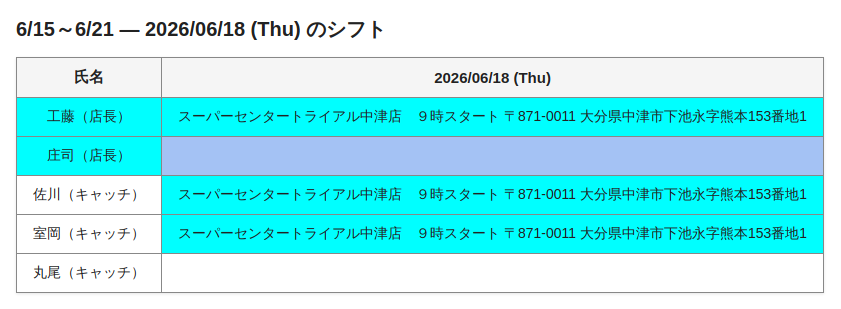
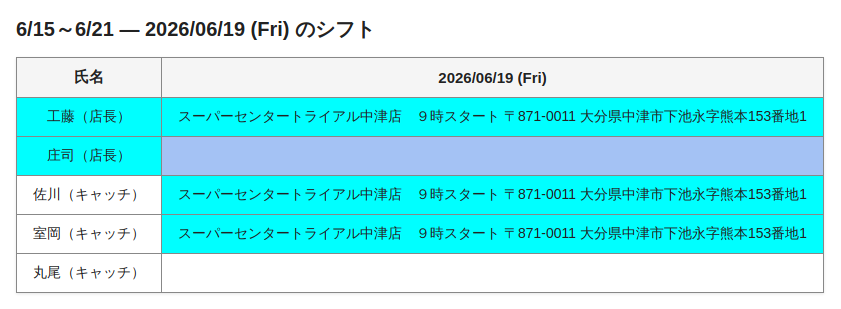
chore: update screenshots [skip ci]

Changed region(s): [[0.2782, 0.0583, 0.4637, 0.1456], [0.4946, 0.233, 0.6801, 0.2913]]

diff --git a/screenshots/latest_kanto.html b/screenshots/latest_kanto.html
@@ -10,12 +10,10 @@ th,td{border:1px solid #888;padding:10px 16px;text-align:center;min-width:90px;}
 th{background:#f5f5f5;font-weight:bold;}
 </style></head><body>
 <div class='container'>
-<h2>週_6月15日-6月21日 — 2026/06/18 (Thu) のシフト</h2>
+<h2>週_6月15日-6月21日 — 2026/06/19 (Fri) のシフト</h2>
 <table>
-<tr><th>氏名</th><th>2026/06/18 (Thu)</th></tr>
-<tr><td style='background-color:rgb(255,153,0);font-size:13px'>大塚（店長）</td><td style='background-color:rgb(224,102,102);font-size:14px'>オーケー川口店　Ｂ　9時スタート
-〒332-0023 埼玉県川口市飯塚２丁目１−１１</td></tr>
-<tr><td style='background-color:#ffffff'></td><td style='background-color:rgb(255,255,255);color:rgb(255,0,0);font-size:13px'>同行</td></tr>
+<tr><th>氏名</th><th>2026/06/19 (Fri)</th></tr>
+<tr><td style='background-color:rgb(255,153,0);font-size:13px'>大塚（店長）</td><td style='background-color:rgb(255,242,204);color:rgb(255,0,0);font-weight:bold;font-size:14px'>水道橋研修　</td></tr>
 <tr><td style='background-color:rgb(255,0,255);font-size:13px'>西本（店長）</td><td style='background-color:rgb(183,183,183);color:rgb(74,134,232);font-size:13px'>休み</td></tr>
 <tr><td style='background-color:rgb(255,0,255);font-size:13px'>小嶋（店長）</td><td style='background-color:rgb(153,0,255);color:rgb(255,255,255);font-size:14px'>オーケー川和町店　Ｂ　9時スタート
 〒224-0057 神奈川県横浜市都筑区川和町１０６</td></tr>
@@ -24,12 +22,12 @@ th{background:#f5f5f5;font-weight:bold;}
 〒329-0207 栃木県小山市美しが丘１丁目２−３</td></tr>
 <tr><td style='background-color:rgb(255,0,255);font-size:13px'>岡村秀星（店長） </td><td style='background-color:rgb(255,0,255);font-size:13px'>オーケー田園調布店　Ｂ　9時スタート
 〒145-0072 東京都大田区田園調布本町５２−１</td></tr>
-<tr><td style='background-color:#ffffff'></td><td style='background-color:rgb(255,255,255);color:rgb(255,0,0);font-size:13px'>店長代理</td></tr>
-<tr><td style='background-color:rgb(0,255,255);font-size:13px'>工藤雅也（店長）</td><td style='background-color:rgb(0,255,0);font-size:14px'>FOOD OFFストッカー サンモリノ那珂店　V　9時スタート
+<tr><td style='background-color:#ffffff'></td><td style='background-color:rgb(255,255,255);color:rgb(255,0,0);font-size:14px'>店長代理</td></tr>
+<tr><td style='background-color:rgb(255,0,255);font-size:13px'>工藤雅也（店長）</td><td style='background-color:rgb(0,255,0);font-size:14px'>FOOD OFFストッカー サンモリノ那珂店　V　9時スタート
 〒311-0105 茨城県那珂市菅谷１６１８−２</td></tr>
-<tr><td style='background-color:rgb(0,255,255);font-size:13px'>岡村（店長）</td><td style='background-color:rgb(224,102,102);font-size:14px'>オーケー川口店　Ｂ　9時スタート
-〒332-0023 埼玉県川口市飯塚２丁目１−１１</td></tr>
-<tr><td style='background-color:#ffffff'></td><td style='background-color:rgb(255,255,255);color:rgb(255,0,0);font-size:13px'>同行</td></tr>
+<tr><td style='background-color:rgb(0,255,255);font-size:13px'>岡村（店長）</td><td style='background-color:rgb(180,167,214);font-size:14px'>オーケー 溝ノ口店　Ｂ　9時スタート
+〒213-0033 神奈川県川崎市高津区下作延１丁目６−７</td></tr>
+<tr><td style='background-color:#ffffff'></td><td style='background-color:rgb(255,255,255);color:rgb(255,0,0);font-size:14px'>店長代理</td></tr>
 <tr><td style='background-color:rgb(0,255,255);font-size:13px'>山田（店長） </td><td style='background-color:rgb(255,229,153);font-size:13px'>オーケー橋場店　Ｂ　9時スタート
 〒111-0023 東京都台東区橋場１丁目１−１５</td></tr>
 <tr><td style='background-color:rgb(0,255,255);font-size:13px'>吉田（店長）</td><td style='background-color:rgb(39,78,19);color:rgb(255,255,255);font-size:13px'>イオンスタイル新井宿駅前店　N　9時スタート
@@ -38,15 +36,13 @@ th{background:#f5f5f5;font-weight:bold;}
 〒306-0025 茨城県古河市原町２３７</td></tr>
 <tr><td style='background-color:rgb(0,255,255);font-size:13px'>横瀬（店長）</td><td style='background-color:rgb(224,102,102);font-size:14px'>オーケー川口店　Ｂ　9時スタート
 〒332-0023 埼玉県川口市飯塚２丁目１−１１</td></tr>
-<tr><td style='background-color:rgb(180,167,214);font-size:13px'>高塚（店長）</td><td style='background-color:rgb(180,167,214);font-size:14px'>オーケー 溝ノ口店　Ｂ　9時スタート
-〒213-0033 神奈川県川崎市高津区下作延１丁目６−７</td></tr>
+<tr><td style='background-color:rgb(180,167,214);font-size:13px'>高塚（店長）</td><td style='background-color:rgb(183,183,183);color:rgb(74,134,232);font-size:13px'>休み</td></tr>
 <tr><td style='background-color:rgb(234,153,153);font-size:13px'>米須清晃（店長）</td><td style='background-color:rgb(244,204,204);font-size:14px'>オーケー町田小川店　Ｂ　9時スタート
 〒194-0003 東京都町田市小川６丁目１３−１９</td></tr>
 <tr><td style='background-color:rgb(234,153,153);font-size:13px'>田口広(CL候補)フェーズ4</td><td style='background-color:rgb(255,242,204);color:rgb(255,0,0);font-weight:bold;font-size:14px'>水道橋研修</td></tr>
 <tr><td style='background-color:rgb(234,153,153);font-size:13px'>武藏海翔(CL候補)フェーズ4</td><td style='background-color:rgb(255,242,204);color:rgb(255,0,0);font-weight:bold;font-size:14px'>水道橋研修</td></tr>
 <tr><td style='background-color:rgb(0,255,0);font-size:13px'>関崎太央(キャッチ)リーダー</td><td style='background-color:rgb(255,242,204);color:rgb(255,0,0);font-weight:bold;font-size:14px'>水道橋研修</td></tr>
-<tr><td style='background-color:rgb(0,255,0);font-size:13px'>池邉杏梨(キャッチ)リーダー</td><td style='background-color:rgb(180,167,214);font-size:14px'>オーケー 溝ノ口店9時スタート（高塚CL）
-〒213-0033 神奈川県川崎市高津区下作延１丁目６−７</td></tr>
+<tr><td style='background-color:rgb(0,255,0);font-size:13px'>池邉杏梨(キャッチ)リーダー</td><td style='background-color:rgb(183,183,183);color:rgb(74,134,232);font-size:14px'>休み</td></tr>
 <tr><td style='background-color:rgb(0,255,0);font-size:13px'>中村響子(キャッチ)リーダー</td><td style='background-color:rgb(255,229,153);font-size:13px'>オーケー橋場店9時スタート（山田CL）
 〒111-0023 東京都台東区橋場１丁目１−１５</td></tr>
 <tr><td style='background-color:rgb(0,255,0);font-size:13px'>佐川明佳(キャッチ)リーダー</td><td style='background-color:rgb(255,255,255);font-size:14px'>スーパーセンタートライアル中津店　S　9時スタート
@@ -60,12 +56,10 @@ th{background:#f5f5f5;font-weight:bold;}
 〒311-0105 茨城県那珂市菅谷１６１８−２</td></tr>
 <tr><td style='background-color:rgb(183,225,205);font-size:13px'>薄井和明(キャッチ)フェーズ3</td><td style='background-color:rgb(0,255,0);font-size:14px'>FOOD OFFストッカー サンモリノ那珂店9時スタート（工藤CL）
 〒311-0105 茨城県那珂市菅谷１６１８−２</td></tr>
-<tr><td style='background-color:rgb(183,225,205);font-size:13px'>大木亜希乃(キャッチ)フェーズ3</td><td style='background-color:rgb(244,204,204);font-size:14px'>オーケー町田小川店9時スタート（米須CL）
-〒194-0003 東京都町田市小川６丁目１３−１９</td></tr>
+<tr><td style='background-color:rgb(183,225,205);font-size:13px'>大木亜希乃(キャッチ)フェーズ3</td><td style='background-color:rgb(183,183,183);color:rgb(74,134,232);font-size:14px'>休み</td></tr>
 <tr><td style='background-color:rgb(183,225,205);font-size:13px'>川上寛太(キャッチ)フェーズ3</td><td style='background-color:rgb(127,96,0);color:rgb(255,255,255);font-size:14px'>オータニ小山店9時半スタート（高井CL）
 〒329-0207 栃木県小山市美しが丘１丁目２−３</td></tr>
-<tr><td style='background-color:rgb(183,225,205);font-size:13px'>高橋疾風(キャッチ)フェーズ3</td><td style='background-color:rgb(255,229,153);font-size:13px'>オーケー橋場店9時スタート（山田CL）
-〒111-0023 東京都台東区橋場１丁目１−１５</td></tr>
+<tr><td style='background-color:rgb(183,225,205);font-size:13px'>高橋疾風(キャッチ)フェーズ3</td><td style='background-color:rgb(183,183,183);color:rgb(74,134,232);font-size:14px'>休み</td></tr>
 <tr><td style='background-color:rgb(183,225,205);font-size:13px'>宮下裕大(キャッチ)フェーズ3</td><td style='background-color:rgb(183,183,183);color:rgb(74,134,232);font-size:14px'>休み</td></tr>
 <tr><td style='background-color:rgb(183,225,205);font-size:13px'>本間駿介(キャッチ)フェーズ3</td><td style='background-color:rgb(224,102,102);font-size:14px'>オーケー川口店9時スタート（横瀬CL）
 〒332-0023 埼玉県川口市飯塚２丁目１−１１</td></tr>

diff --git a/screenshots/latest_kansai.html b/screenshots/latest_kansai.html
@@ -10,9 +10,9 @@ th,td{border:1px solid #888;padding:10px 16px;text-align:center;min-width:90px;}
 th{background:#f5f5f5;font-weight:bold;}
 </style></head><body>
 <div class='container'>
-<h2>6/15～6/21 — 2026/06/18 (Thu) のシフト</h2>
+<h2>6/15～6/21 — 2026/06/19 (Fri) のシフト</h2>
 <table>
-<tr><th>氏名</th><th>2026/06/18 (Thu)</th></tr>
+<tr><th>氏名</th><th>2026/06/19 (Fri)</th></tr>
 <tr><td style='background-color:rgb(0,255,255);font-size:14px'>工藤（店長）</td><td style='background-color:rgb(0,255,255);font-size:14px'></td></tr>
 <tr><td style='background-color:rgb(0,255,255);font-size:14px'>平石（店長）</td><td style='background-color:rgb(0,255,0);font-size:14px'>スーパーNISHIYAMA 神戸有野　I　９時
 〒651-1312 兵庫県神戸市北区有野町９８０−１</td></tr>
@@ -43,8 +43,7 @@ th{background:#f5f5f5;font-weight:bold;}
 <tr><td style='background-color:rgb(0,255,0);font-size:14px'>西川未来(キャッチ)</td><td style='background-color:rgb(246,178,107);font-size:14px'>コーナン高槻富田丘店　I　９時</td></tr>
 <tr><td style='background-color:rgb(0,255,0);font-size:14px'>高木康汰(キャッチ)</td><td style='background-color:rgb(255,255,0);font-size:14px'>オーケー 垂水小束山　B　９時</td></tr>
 <tr><td style='background-color:rgb(0,255,0);font-size:14px'>内村大翔(キャッチ)</td><td style='background-color:rgb(255,255,255);font-size:14px'></td></tr>
-<tr><td style='background-color:rgb(0,255,0);font-size:14px'>山口智美(キャッチ)</td><td style='background-color:rgb(142,124,195);font-size:14px'>甲南本通商店街　I　９時</td></tr>
-<tr><td style='background-color:#ffffff'></td><td style='background-color:rgb(255,255,255);color:rgb(255,109,1);font-weight:bold;font-size:12px'>病院後　11時予定</td></tr>
+<tr><td style='background-color:rgb(0,255,0);font-size:14px'>山口智美(キャッチ)</td><td style='background-color:rgb(255,255,255);font-size:14px'>事務所</td></tr>
 <tr><td style='background-color:rgb(0,255,0);font-size:14px'>岡本杏実(キャッチ)</td><td style='background-color:rgb(255,255,255);font-size:14px'>事務所</td></tr>
 <tr><td style='background-color:rgb(0,255,0);font-size:14px'>河本彩羽(キャッチ)</td><td style='background-color:rgb(164,194,244);font-size:14px'>F☆マート 鈴鹿インター店　S　９時</td></tr>
 <tr><td style='background-color:rgb(0,255,0);font-size:14px'>北村真季(キャッチ)</td><td style='background-color:rgb(183,183,183);color:rgb(74,134,232);font-size:14px'>休み</td></tr>
@@ -62,7 +61,7 @@ th{background:#f5f5f5;font-weight:bold;}
 <tr><td style='background-color:rgb(255,255,255);font-size:14px'>桑原大明(CL候補)</td><td style='background-color:rgb(183,183,183);color:rgb(74,134,232);font-size:14px'>休み</td></tr>
 <tr><td style='background-color:rgb(255,255,255);font-size:14px'>岡朔太郎(キャッチ)</td><td style='background-color:rgb(255,255,255);font-size:14px'>テレアポ</td></tr>
 <tr><td style='background-color:rgb(255,255,255);font-size:14px'>石堂友貴(キャッチ)</td><td style='background-color:rgb(255,255,255);font-size:10px'></td></tr>
-<tr><td style='background-color:rgb(255,255,255);font-size:14px'>大西航聖(CL候補)</td><td style='background-color:rgb(183,183,183);color:rgb(74,134,232);font-size:14px'>休み</td></tr>
+<tr><td style='background-color:rgb(255,255,255);font-size:14px'>大西航聖(CL候補)</td><td style='background-color:rgb(255,255,255);font-size:14px'>テレアポ</td></tr>
 <tr><td style='background-color:rgb(255,255,255);font-size:14px'>石井裕真(CL候補)</td><td style='background-color:rgb(255,255,255);font-size:14px'></td></tr>
 <tr><td style='background-color:rgb(255,255,255);font-size:14px'>杉山彰(CL候補)</td><td style='background-color:rgb(255,255,255);font-size:14px'></td></tr>
 </table></div></body></html>

diff --git a/screenshots/latest_kyushu.html b/screenshots/latest_kyushu.html
@@ -10,9 +10,9 @@ th,td{border:1px solid #888;padding:10px 16px;text-align:center;min-width:90px;}
 th{background:#f5f5f5;font-weight:bold;}
 </style></head><body>
 <div class='container'>
-<h2>6/15～6/21  — 2026/06/18 (Thu) のシフト</h2>
+<h2>6/15～6/21  — 2026/06/19 (Fri) のシフト</h2>
 <table>
-<tr><th>氏名</th><th>2026/06/18 (Thu)</th></tr>
+<tr><th>氏名</th><th>2026/06/19 (Fri)</th></tr>
 <tr><td style='background-color:rgb(0,255,255);font-size:14px'>工藤（店長）</td><td style='background-color:rgb(0,255,255);font-size:14px'>スーパーセンタートライアル中津店　９時スタート
 〒871-0011 大分県中津市下池永字熊本153番地1</td></tr>
 <tr><td style='background-color:rgb(0,255,255);font-size:14px'>庄司（店長）</td><td style='background-color:rgb(164,194,244);font-size:14px'></td></tr>
